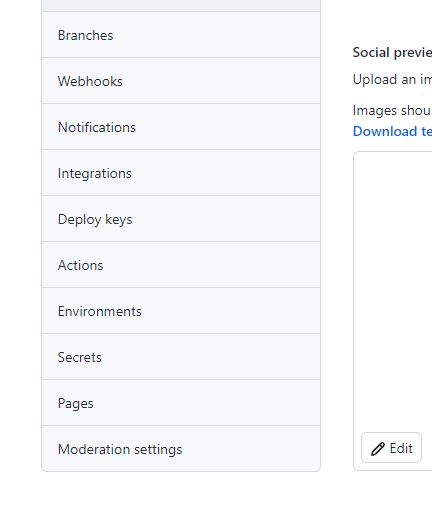
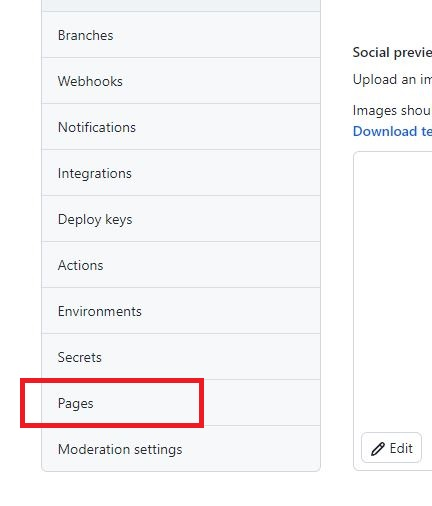
seventh commit

Changed region(s): [[0.0301, 0.7411, 0.4815, 0.8597]]

diff --git a/index.html b/index.html
@@ -34,10 +34,12 @@ How to use Github
     <h1>
         4. Upload a web page.    
         </h1>
-<p style="font-size:20px;">Go to the settings tab</p>
-<p>  <img src="8.jpg" width=590" height="390" align="center">
+<p style="font-size:20px;">Go to the settings tab.</p>
+<p>  <img src="8.jpg" width=690" height="300" align="center">
 
-        
+    <p style="font-size:20px;">Now go to pages.</p>
+    <p>  <img src="9.jpg" width=690" height="300" align="center">
+            
 
 
 <body>
